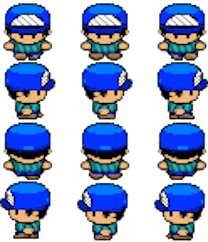
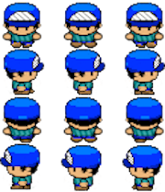
Added animations and clock, clock need readjusting

diff --git a/src/player_and_map/player_movement3.c b/src/player_and_map/player_movement3.c
@@ -10,27 +10,23 @@
 
 void go_right(main_t *main_struct)
 {
-    sfClock *clock = sfClock_create();
     float seconds = 0.0;
 
     if (check_cols_right(main_struct) == 0) {
-        seconds = sfClock_getElapsedTime(clock).microseconds / 1000000.0;
-        // if (seconds < 0.2) {
-        //     printf("fuckoff");
-        //     return;
-        // }
-        main_struct->pm.player.player_sp->rect->top = 60;
-        // if ( main_struct->pm.player.player_sp->rect->left < 78*3)
-        //     main_struct->pm.player.player_sp->rect->left += 78;
-        // else
-        //     main_struct->pm.player.player_sp->rect->left = 0;
+        seconds = sfClock_getElapsedTime(main_struct->pm.player.clock).microseconds / 100.0;
+        printf("%f\n", seconds);
         main_struct->pm.player.pos.x += 3;
-
+        main_struct->pm.player.player_sp->rect->top = 49;
+        // if (seconds > 0.01) {
+            if ( main_struct->pm.player.player_sp->rect->left < 61*2)
+                main_struct->pm.player.player_sp->rect->left += 61;
+            else
+                main_struct->pm.player.player_sp->rect->left = 0;
+        // }
     }
     sfSprite_setTextureRect(main_struct->pm.player.player_sp->sprite, 
     *(main_struct->pm.player.player_sp->rect));
-    sfClock_restart(clock);
-
+    sfClock_restart(main_struct->pm.player.clock);
 }
 
 void go_up(main_t *main_struct)
@@ -39,20 +35,19 @@ void go_up(main_t *main_struct)
     float seconds = 0.0;
 
     if (check_cols_up(main_struct) == 0) {
-        seconds = sfClock_getElapsedTime(clock).microseconds / 1000000.0;
-        // if (seconds < 0.2)
-        //     return;
-        main_struct->pm.player.player_sp->rect->top = 122;
-        // if ( main_struct->pm.player.player_sp->rect->left < 78*3)
-        //     main_struct->pm.player.player_sp->rect->left += 78;
-        // else
-        //     main_struct->pm.player.player_sp->rect->left = 0;
+        seconds = sfClock_getElapsedTime(clock).microseconds / 100.0;
         main_struct->pm.player.pos.y -= 3;
-
+        main_struct->pm.player.player_sp->rect->top = 98;
+        if (seconds > 0.01) {
+            if ( main_struct->pm.player.player_sp->rect->left < 61*2)
+                main_struct->pm.player.player_sp->rect->left += 61;
+            else
+                main_struct->pm.player.player_sp->rect->left = 0;
+            sfClock_restart(clock);
+        }
     }
     sfSprite_setTextureRect(main_struct->pm.player.player_sp->sprite, 
     *(main_struct->pm.player.player_sp->rect));
-    sfClock_restart(clock);
 }
 
 void go_left(main_t *main_struct)
@@ -61,20 +56,19 @@ void go_left(main_t *main_struct)
     float seconds = 0.0;
 
     if (check_cols_left(main_struct) == 0) {
-        seconds = sfClock_getElapsedTime(clock).microseconds / 1000000.0;
-        // if (seconds < 0.2)
-        //     return;
-        main_struct->pm.player.player_sp->rect->top = 182;
-        // if ( main_struct->pm.player.player_sp->rect->left < 78*3)
-        //     main_struct->pm.player.player_sp->rect->left += 78;
-        // else
-        //     main_struct->pm.player.player_sp->rect->left = 0;
+        seconds = sfClock_getElapsedTime(clock).microseconds / 100.0;
         main_struct->pm.player.pos.x -= 3;
-
+        main_struct->pm.player.player_sp->rect->top = 145;
+        if (seconds > 0.01) {
+            if ( main_struct->pm.player.player_sp->rect->left < 61*2)
+                main_struct->pm.player.player_sp->rect->left += 61;
+            else
+                main_struct->pm.player.player_sp->rect->left = 0;
+            sfClock_restart(clock);
+        }
     }
     sfSprite_setTextureRect(main_struct->pm.player.player_sp->sprite, 
     *(main_struct->pm.player.player_sp->rect));
-    sfClock_restart(clock);
 }
 
 void go_down(main_t *main_struct)
@@ -83,18 +77,17 @@ void go_down(main_t *main_struct)
     float seconds = 0.0;
 
     if (check_cols_down(main_struct) == 0) {
-        seconds = sfClock_getElapsedTime(clock).microseconds / 1000000.0;
-        // if (seconds < 0.2)
-        //     return;
-        main_struct->pm.player.player_sp->rect->top = 2;
-        // if ( main_struct->pm.player.player_sp->rect->left < 78*3)
-        //     main_struct->pm.player.player_sp->rect->left += 78;
-        // else
-        //     main_struct->pm.player.player_sp->rect->left = 0;
+        seconds = sfClock_getElapsedTime(clock).microseconds / 100.0;
         main_struct->pm.player.pos.y += 3;
-
+        main_struct->pm.player.player_sp->rect->top = 2;
+        if (seconds > 0.01) {
+            if ( main_struct->pm.player.player_sp->rect->left < 61*2)
+                main_struct->pm.player.player_sp->rect->left += 61;
+            else
+                main_struct->pm.player.player_sp->rect->left = 0;
+            sfClock_restart(clock);
+        }
     }
     sfSprite_setTextureRect(main_struct->pm.player.player_sp->sprite, 
     *(main_struct->pm.player.player_sp->rect));
-    sfClock_restart(clock);
 }

diff --git a/src/player_and_map/player_movement.c b/src/player_and_map/player_movement.c
@@ -11,13 +11,15 @@
 void change_map_0(main_t *main_struct)
 {
     if (main_struct->pm.player.scene == 0) {
-        if (main_struct->pm.player.pos.y <= 130 && main_struct->pm.player.pos.x >= 315 
+        if (main_struct->pm.player.pos.y <= 130 
+        && main_struct->pm.player.pos.x >= 315 
         && main_struct->pm.player.pos.x <= 354) {
             main_struct->pm.player.scene = 1;
             main_struct->pm.player.pos.y = 900;
             main_struct->pm.player.pos.x = 315;
         }
-        if (main_struct->pm.player.pos.y <= 130 && main_struct->pm.player.pos.x >= 1533 
+        if (main_struct->pm.player.pos.y <= 130 
+        && main_struct->pm.player.pos.x >= 1533 
         && main_struct->pm.player.pos.x <= 1578) {
             main_struct->pm.player.scene = 1;
             main_struct->pm.player.pos.y = 900;
@@ -29,19 +31,22 @@ void change_map_0(main_t *main_struct)
 void change_map_1(main_t *main_struct)
 {
     if (main_struct->pm.player.scene == 1) {
-        if (main_struct->pm.player.pos.y <= 330 && main_struct->pm.player.pos.x <= 990 
+        if (main_struct->pm.player.pos.y <= 330 
+        && main_struct->pm.player.pos.x <= 990 
         && main_struct->pm.player.pos.x >= 800) {
             main_struct->pm.player.scene = 2;
             main_struct->pm.player.pos.y = 87;
             main_struct->pm.player.pos.x = 1047;
         }
-        if (main_struct->pm.player.pos.y >= 960 && main_struct->pm.player.pos.x >= 1408 
+        if (main_struct->pm.player.pos.y >= 960 
+        && main_struct->pm.player.pos.x >= 1408 
         && main_struct->pm.player.pos.x <= 1564) {
             main_struct->pm.player.scene = 0;
             main_struct->pm.player.pos.y = 132;
             main_struct->pm.player.pos.x = 1497;
         }
-        if (main_struct->pm.player.pos.y >= 960 && main_struct->pm.player.pos.x >= 289 
+        if (main_struct->pm.player.pos.y >= 960 
+        && main_struct->pm.player.pos.x >= 289 
         && main_struct->pm.player.pos.x <= 412) {
             main_struct->pm.player.scene = 0;
             main_struct->pm.player.pos.y = 132;
@@ -53,7 +58,8 @@ void change_map_1(main_t *main_struct)
 void change_map_2(main_t *main_struct)
 {
     if (main_struct->pm.player.scene == 2) {
-        if (main_struct->pm.player.pos.y <= 34 && main_struct->pm.player.pos.x <= 1122 
+        if (main_struct->pm.player.pos.y <= 34 
+        && main_struct->pm.player.pos.x <= 1122 
         && main_struct->pm.player.pos.x >= 990) {
             main_struct->pm.player.scene = 1;
             main_struct->pm.player.pos.y = 370;
@@ -66,13 +72,15 @@ void player_move(main_t *main_struct)
 {
     if (main_struct->story->show_window == 1)
         return;
-    if (sfKeyboard_isKeyPressed(sfKeyRight) && main_struct->pm.player.pos.x < 1920 - 32)
+    if (sfKeyboard_isKeyPressed(sfKeyRight) 
+    && main_struct->pm.player.pos.x < 1920 - 50)
         go_right(main_struct);
     if (sfKeyboard_isKeyPressed(sfKeyUp))
         go_up(main_struct);
     if (sfKeyboard_isKeyPressed(sfKeyLeft) && main_struct->pm.player.pos.x > 0)
         go_left(main_struct);
-    if (sfKeyboard_isKeyPressed(sfKeyDown) && main_struct->pm.player.pos.y < 1080 - 32)
+    if (sfKeyboard_isKeyPressed(sfKeyDown) 
+    && main_struct->pm.player.pos.y < 1080 - 50)
          go_down(main_struct);
     change_map_0(main_struct);
     change_map_1(main_struct);

diff --git a/src/player_and_map/smi1_init.c b/src/player_and_map/smi1_init.c
@@ -13,7 +13,8 @@ void put_map_sm1(main_t *main_struct)
     if (main_struct->player->fight_scene)
         return;
     if (main_struct->pm.player.scene == 0) {
-        sfRenderWindow_drawSprite(main_struct->window, main_struct->pm.map.map_sp->sprite, NULL);
+        sfRenderWindow_drawSprite(main_struct->window, 
+        main_struct->pm.map.map_sp->sprite, NULL);
         put_player(main_struct);
     }
 }
@@ -23,23 +24,26 @@ void put_map_sm1_3D(main_t *main_struct)
     if (main_struct->player->fight_scene)
         return;
     if (main_struct->pm.player.scene == 0) {
-        sfRenderWindow_drawSprite(main_struct->window, main_struct->pm.map_3D.map_sp->sprite, NULL);
+        sfRenderWindow_drawSprite(main_struct->window, 
+        main_struct->pm.map_3D.map_sp->sprite, NULL);
     }
 }
 
 void put_player(main_t *main_struct)
 {
-    sfSprite_setPosition(main_struct->pm.player.player_sp->sprite, main_struct->pm.player.pos);
-    sfRenderWindow_drawSprite(main_struct->window, main_struct->pm.player.player_sp->sprite, NULL);
+    sfSprite_setPosition(main_struct->pm.player.player_sp->sprite, 
+    main_struct->pm.player.pos);
+    sfRenderWindow_drawSprite(main_struct->window, 
+    main_struct->pm.player.player_sp->sprite, NULL);
 }
 
 sfIntRect *init_rect_player(sfTexture *texture)
 {
     sfIntRect *rect = malloc(sizeof(sfIntRect));
-    rect->top = 60;
+    rect->top = 49;
     rect->left = 0;
-    rect->height = 60;
-    rect->width = 54;
+    rect->height = 47;
+    rect->width = 44;
     return (rect);
 }
 
@@ -63,9 +67,12 @@ void init_perso(main_t *main_struct)
 
     main_struct->pm.player.pos.x = 96;
     main_struct->pm.player.pos.y = 681;
-    main_struct->pm.player.player_sp = load_sprite_player("./ressources/maps/player.png");
-    main_struct->pm.player.scene = 0;
-    sfSprite_setTextureRect(main_struct->pm.player.player_sp->sprite, *(main_struct->pm.player.player_sp->rect));
+    main_struct->pm.player.player_sp = 
+    load_sprite_player("./ressources/maps/player.png");
+    main_struct->pm.player.scene = 2;
+    sfSprite_setTextureRect(main_struct->pm.player.player_sp->sprite, 
+    *(main_struct->pm.player.player_sp->rect));
+    main_struct->pm.player.clock = sfClock_create();
 }
 
 void init_map(main_t *main_struct)
@@ -73,5 +80,6 @@ void init_map(main_t *main_struct)
     main_struct->pm.view = sfView_create();
     sfView_setSize(main_struct->pm.view, (sfVector2f){960, 540});
     main_struct->pm.map.map_sp = load_sprite("./ressources/maps/sm1.png");
-    main_struct->pm.map_3D.map_sp = load_sprite("./ressources/maps/sm1_3d.png");
+    main_struct->pm.map_3D.map_sp = 
+    load_sprite("./ressources/maps/sm1_3d.png");
 }

diff --git a/src/player_and_map/player_movement2.c b/src/player_and_map/player_movement2.c
@@ -16,9 +16,9 @@ int check_cols_right(main_t *main_struct)
     int d = 0;
 
     a = (main_struct->pm.player.pos.y) / 32;
-    b = (main_struct->pm.player.pos.x + 57) / 32;
-    c = (main_struct->pm.player.pos.y + 60) / 32;
-    d = (main_struct->pm.player.pos.x + 57) / 32;
+    b = (main_struct->pm.player.pos.x + 47) / 32;
+    c = (main_struct->pm.player.pos.y + 47) / 32;
+    d = (main_struct->pm.player.pos.x + 47) / 32;
     if (main_struct->map[main_struct->pm.player.scene][a][b] == '1' ||
     main_struct->map[main_struct->pm.player.scene][c][d] == '1') {    
         return (-1);
@@ -35,7 +35,7 @@ int check_cols_left(main_t *main_struct)
 
     a = (main_struct->pm.player.pos.y) / 32;
     b = (main_struct->pm.player.pos.x - 3) / 32;
-    c = (main_struct->pm.player.pos.y + 60) / 32;
+    c = (main_struct->pm.player.pos.y + 47) / 32;
     d = (main_struct->pm.player.pos.x - 3) / 32;
     if (main_struct->map[main_struct->pm.player.scene][a][b] == '1' ||
     main_struct->map[main_struct->pm.player.scene][c][d] == '1') {    
@@ -51,9 +51,9 @@ int check_cols_down(main_t *main_struct)
     int c = 0;
     int d = 0;
 
-    a = (main_struct->pm.player.pos.y + 63) / 32;
-    b = (main_struct->pm.player.pos.x + 54) / 32;
-    c = (main_struct->pm.player.pos.y + 63) / 32;
+    a = (main_struct->pm.player.pos.y + 50) / 32;
+    b = (main_struct->pm.player.pos.x + 44) / 32;
+    c = (main_struct->pm.player.pos.y + 50) / 32;
     d = (main_struct->pm.player.pos.x ) / 32;
     if (main_struct->map[main_struct->pm.player.scene][a][b] == '1' ||
     main_struct->map[main_struct->pm.player.scene][c][d] == '1') {    
@@ -72,7 +72,7 @@ int check_cols_up(main_t *main_struct)
     a = (main_struct->pm.player.pos.y - 3) / 32;
     b = (main_struct->pm.player.pos.x) / 32;
     c = (main_struct->pm.player.pos.y - 3) / 32;
-    d = (main_struct->pm.player.pos.x + 54) / 32;
+    d = (main_struct->pm.player.pos.x + 44) / 32;
     if (main_struct->map[main_struct->pm.player.scene][a][b] == '1' ||
     main_struct->map[main_struct->pm.player.scene][c][d] == '1') {    
         return (-1);

diff --git a/src/player_and_map/corridor_init.c b/src/player_and_map/corridor_init.c
@@ -13,7 +13,8 @@ void put_corridor(main_t *main_struct)
     if (main_struct->player->fight_scene)
         return;
     if (main_struct->pm.player.scene == 1) {
-        sfRenderWindow_drawSprite(main_struct->window, main_struct->pm.corridor.map_sp->sprite, NULL);
+        sfRenderWindow_drawSprite(main_struct->window, 
+        main_struct->pm.corridor.map_sp->sprite, NULL);
         put_player(main_struct);
     }
 }
@@ -23,7 +24,8 @@ void put_ground(main_t *main_struct)
     if (main_struct->player->fight_scene)
         return;
     if (main_struct->pm.player.scene == 2) {
-        sfRenderWindow_drawSprite(main_struct->window, main_struct->pm.ground.map_sp->sprite, NULL);
+        sfRenderWindow_drawSprite(main_struct->window, 
+        main_struct->pm.ground.map_sp->sprite, NULL);
         put_player(main_struct);
     }
 }
@@ -33,17 +35,21 @@ void put_ground_3D(main_t *main_struct)
     if (main_struct->player->fight_scene)
         return;
     if (main_struct->pm.player.scene == 2) {
-        sfRenderWindow_drawSprite(main_struct->window, main_struct->pm.ground_3D.map_sp->sprite, NULL);
+        sfRenderWindow_drawSprite(main_struct->window, 
+        main_struct->pm.ground_3D.map_sp->sprite, NULL);
     }
 }
 
 void init_corridor(main_t *main_struct)
 {
-    main_struct->pm.corridor.map_sp = load_sprite("./ressources/maps/corridor.png");
+    main_struct->pm.corridor.map_sp = 
+    load_sprite("./ressources/maps/corridor.png");
 }
 
 void init_ground(main_t *main_struct)
 {
-    main_struct->pm.ground.map_sp = load_sprite("./ressources/maps/new_ground.png");
-    main_struct->pm.ground_3D.map_sp = load_sprite("./ressources/maps/ground.png");
+    main_struct->pm.ground.map_sp = 
+    load_sprite("./ressources/maps/new_ground.png");
+    main_struct->pm.ground_3D.map_sp = 
+    load_sprite("./ressources/maps/ground.png");
 }

diff --git a/src/player_and_map/get_cols.c b/src/player_and_map/get_cols.c
@@ -17,9 +17,12 @@ void init_collisions(main_t *main_struct)
     for (int i = 0; i < 3; i += 1) {
         main_struct->map[i] = malloc(sizeof(char**) * 3);
     }
-    main_struct->map[0] = get_collision("./ressources/maps/map_cols/sm1_cols.txt");
-    main_struct->map[1] = get_collision("./ressources/maps/map_cols/corridor_cols.txt");
-    main_struct->map[2] = get_collision("./ressources/maps/map_cols/ground_cols.txt");
+    main_struct->map[0] = 
+    get_collision("./ressources/maps/map_cols/sm1_cols.txt");
+    main_struct->map[1] = 
+    get_collision("./ressources/maps/map_cols/corridor_cols.txt");
+    main_struct->map[2] = 
+    get_collision("./ressources/maps/map_cols/ground_cols.txt");
 }
 
 int open_file(char *name)

diff --git a/src/player_and_map/gest_view.c b/src/player_and_map/gest_view.c
@@ -10,7 +10,8 @@
 
 void gest_view(main_t *main_struct)
 {
-    sfVector2f center = {main_struct->pm.player.pos.x + 17, main_struct->pm.player.pos.y + 17};
+    sfVector2f center = {main_struct->pm.player.pos.x + 17, 
+    main_struct->pm.player.pos.y + 17};
 
     if (main_struct->player->fight_scene)
         return;

diff --git a/include/player_and_map/player_and_map_struct.h b/include/player_and_map/player_and_map_struct.h
@@ -27,6 +27,7 @@ typedef struct perso_s {
     sprite_t *player_sp;
     int scene;
     char **map;
+    sfClock *clock;
 } perso_t;
 
 typedef struct map_s {
